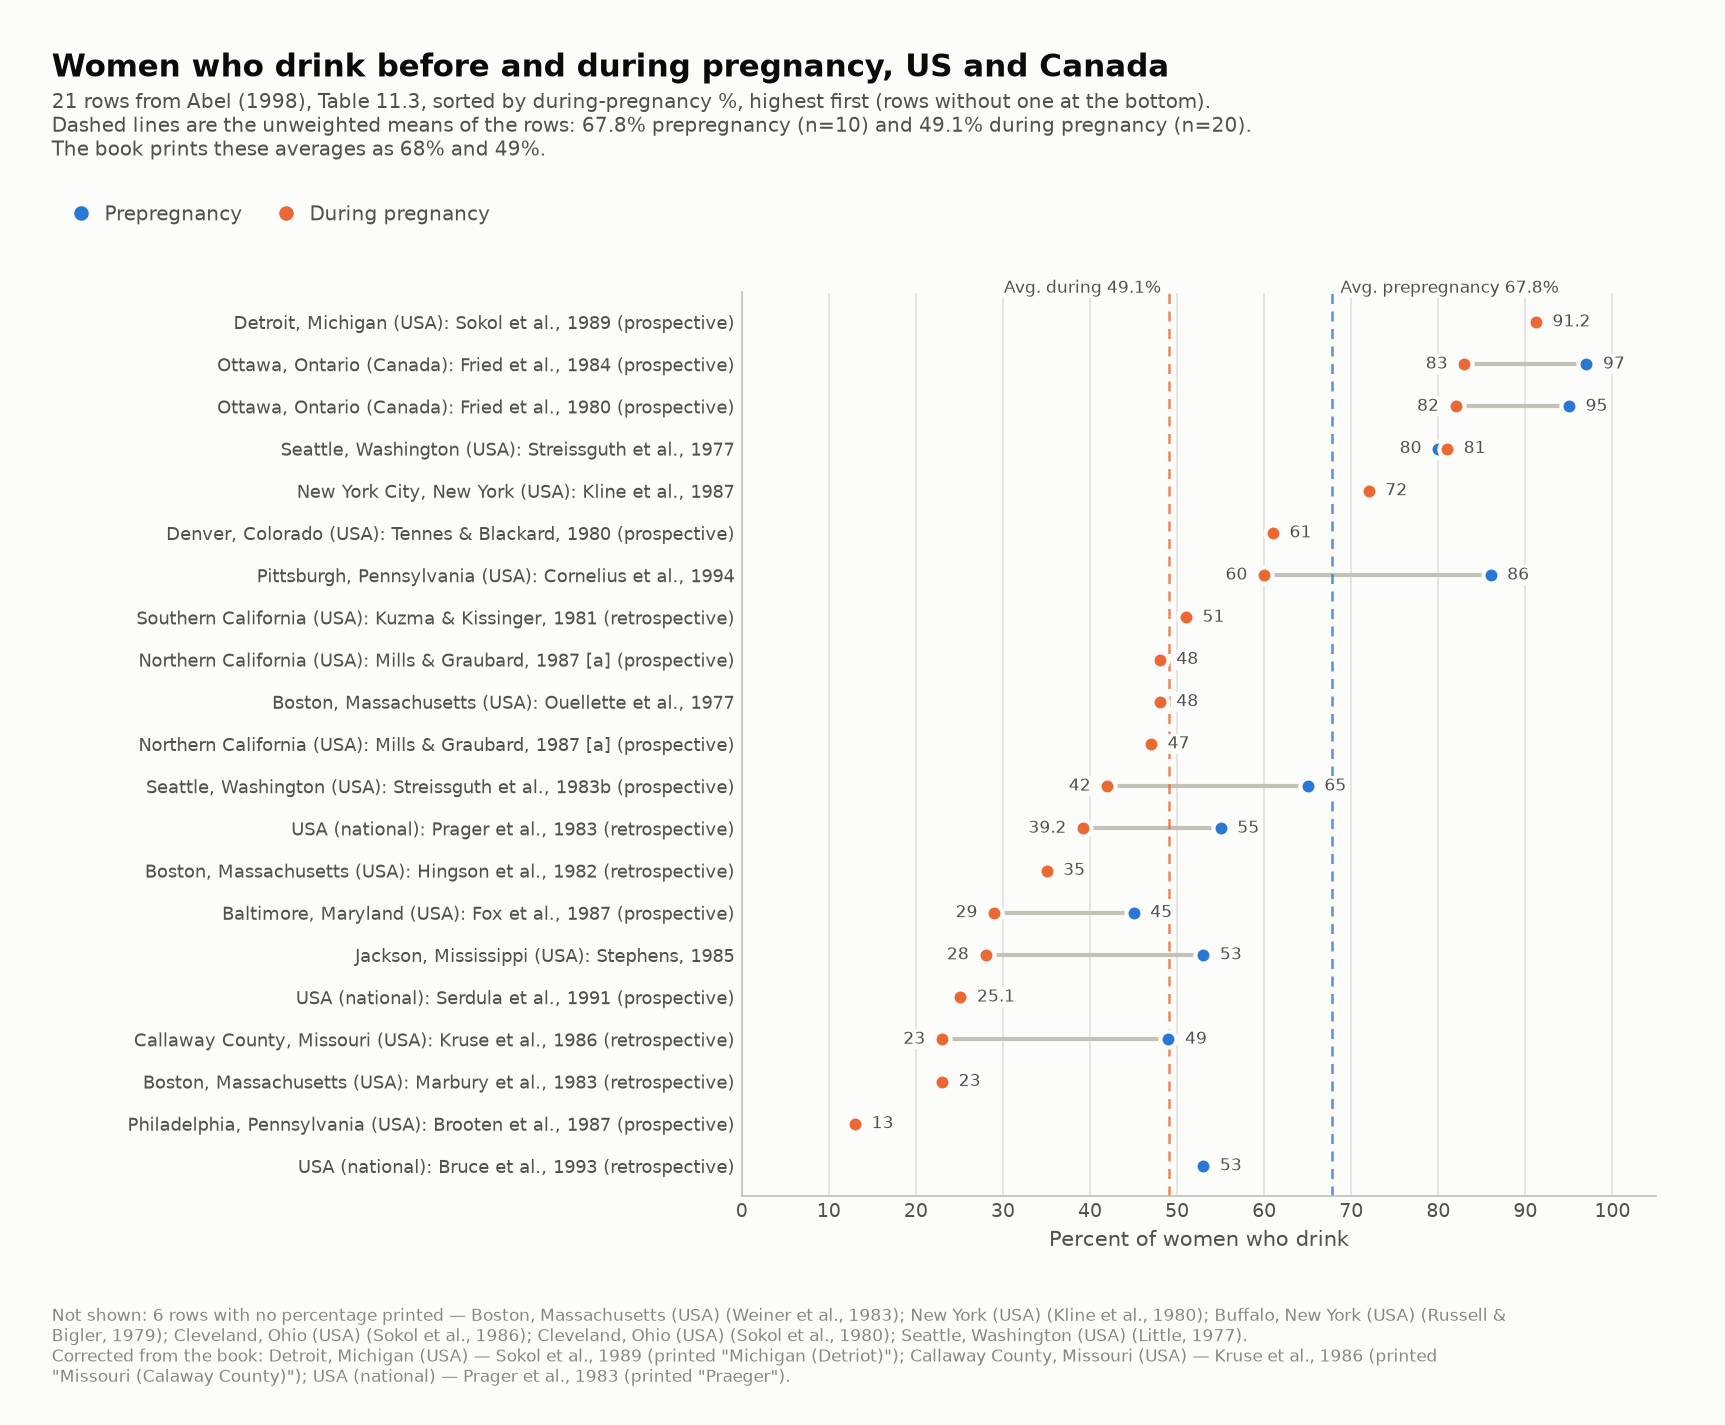
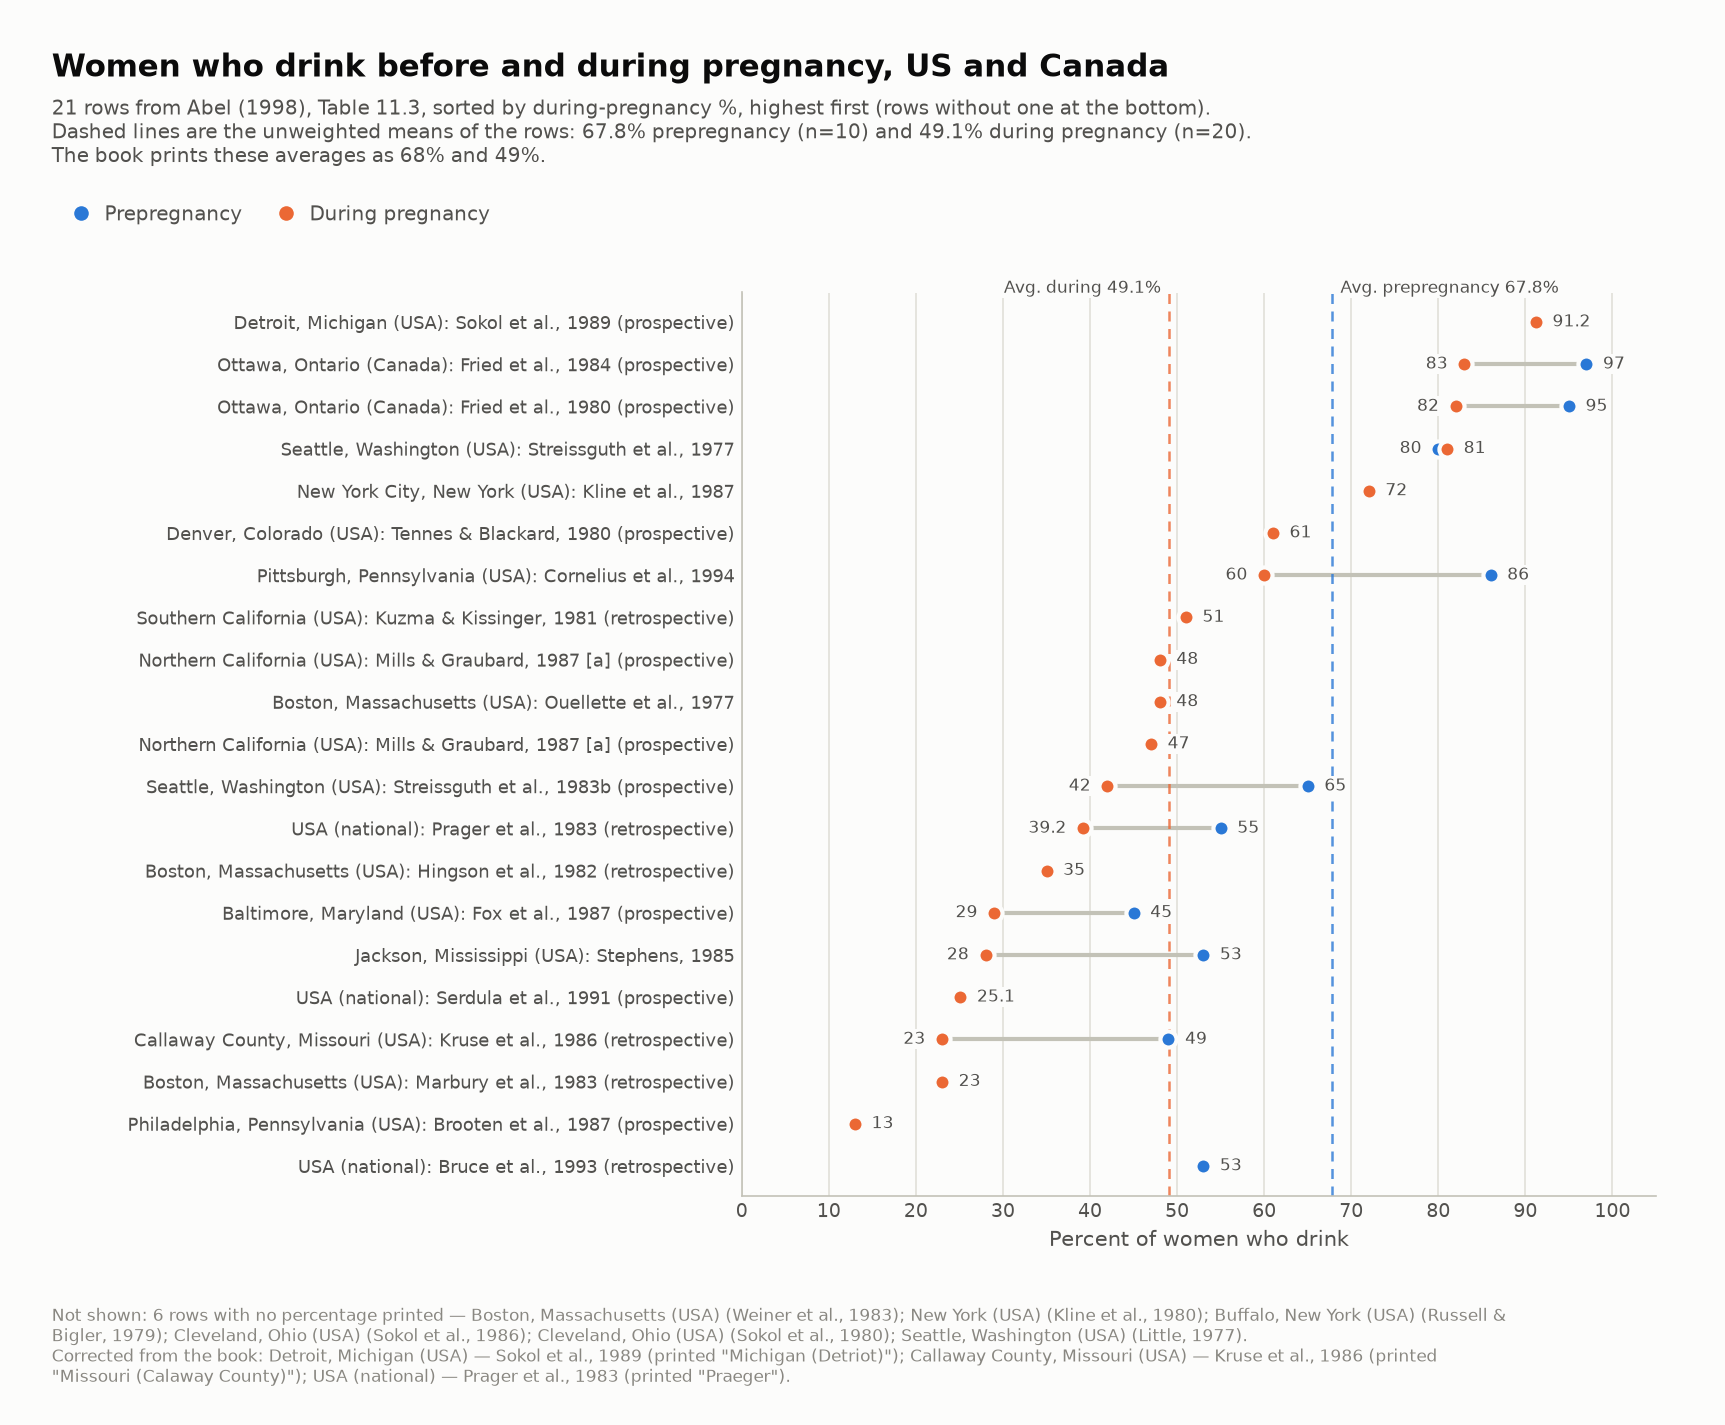
Reword Table 11.4 charts, add combined drinking chart, trim README
Table 11.4 charts now say "FAS cases per 1,000 estimated heavy
drinkers" rather than "incidence per 1,000 heavy drinkers": the
numerator is every FAS case in a study, whoever the mother was. The
trends chart also states that y is computed from x (cases over
heavy-drinker share times sample size), so part of any downward slope
is arithmetic.

New chart: Tables 11.2 and 11.3 combined in one before-and-during
dumbbell, all 51 rows sorted by during-pregnancy percentage. The
drinking-rates script's subtitle gap is now a fixed size so tall
figures keep the legend clear of the text.

README shows only the during-pregnancy chart for Tables 11.2 and 11.3
and notes the derived axis under the Table 11.4 trends chart.

Changed region(s): [[0.0307, 0.0618, 0.7067, 0.1235]]

diff --git a/scripts/fas_rates_chart.py b/scripts/fas_rates_chart.py
@@ -1,4 +1,4 @@
-"""Chart FAS incidence per 1,000 heavy drinkers by study (Abel 1998, Table 11.4).
+"""Chart FAS cases per 1,000 estimated heavy drinkers by study (Abel 1998, Table 11.4).
 
 Writes two images to output/charts/:
   1. Rate by study: every study's rate, grouped under country headings.
@@ -172,13 +172,14 @@ def chart_by_study(studies):
     ax.annotate(f"Pooled rate {pooled:.1f}", (pooled, len(rows) - 0.6),
                 xytext=(5, 0), textcoords="offset points", fontsize=8.5, color=INK_2,
                 va="top", bbox=LABEL_BOX)
-    ax.set_xlabel("Estimated FAS incidence per 1,000 heavy drinkers\n"
+    ax.set_xlabel("FAS cases per 1,000 estimated heavy drinkers\n"
                   "(all FAS cases in the study / its estimated number of heavy drinkers)",
                   color=INK_2, fontsize=10)
 
-    titles(fig, "Estimated FAS incidence per 1,000 heavy drinkers, by study",
+    titles(fig, "FAS cases per 1,000 estimated heavy drinkers, by study",
            f"{len(studies)} studies from Abel (1998), Table 11.4. Each rate is all FAS cases in the "
-           "study divided by its estimated number of heavy drinkers\n(Abel's study-level estimate; "
+           "study, whoever the mother was, divided by its estimated number of heavy\ndrinkers "
+           "(Abel's study-level estimate; "
            "not a rate observed in heavy-drinking women followed individually). Pooled rate = "
            f"{cases} cases /\n{heavy:,} estimated heavy drinkers = {pooled:.1f} per 1,000 "
            "(recomputed; the book's printed total of 3,761 does not match its column).")
@@ -274,7 +275,7 @@ def chart_by_heavy(studies, out_path=OUT_BY_HEAVY,
     ax.axhline(0, color=AXIS, linewidth=1, zorder=1)
     ax.set_xlabel("Percent of pregnant women in the study who drank heavily", color=INK_2,
                   fontsize=10)
-    ax.set_ylabel("Estimated FAS incidence per 1,000 heavy drinkers\n(all FAS cases in the study "
+    ax.set_ylabel("FAS cases per 1,000 estimated heavy drinkers\n(all FAS cases in the study "
                   "/ its estimated number of heavy drinkers)", color=INK_2, fontsize=10)
 
     def signed(v):
@@ -294,15 +295,15 @@ def chart_by_heavy(studies, out_path=OUT_BY_HEAVY,
                title_fontproperties={"size": 10, "weight": "bold"}, alignment="left")
 
     n_zero = sum(s["rate"] == 0 for s in plotted)
-    titles(fig, "Estimated FAS incidence per 1,000 heavy drinkers vs. percent drinking heavily "
-           "in pregnancy, across studies",
+    titles(fig, "FAS cases per 1,000 estimated heavy drinkers vs. the heavy-drinker share of each "
+           "study, across studies",
            f"{len(plotted)} of {len(studies)} studies from Abel (1998), Table 11.4; "
            f"{n_zero} of these reported no cases. Each dot is one study. y: all FAS cases in the "
-           "study divided by its estimated number of heavy drinkers (Abel's estimate;\nnot a rate "
-           "observed in heavy-drinking women followed individually). x: the share of the study's "
-           "pregnant women who drank heavily. The trends relate these study-level\nfigures to each "
-           "other - an ecological comparison - and do not link any woman's own drinking to her own "
-           f"outcome. {place_note}")
+           "study, whoever the mother was, divided by its estimated number of\nheavy drinkers; "
+           "x: the share of the study's pregnant women who drank heavily. y is computed from x "
+           "(cases / (x% \u00d7 sample size)), so a falling trend is partly built in: for a fixed\n"
+           "number of cases per birth, doubling x halves y. Not a rate observed in heavy-drinking "
+           f"women followed individually; trends are across studies (ecological). {place_note}")
     left_out = "; ".join(f'{s["place"]} ({s["study"]}, rate {s["rate"]:g})' for s in missing)
     fig.text(0.03, 0.022,
              f"Not shown: {len(missing)} studies that give no heavy-drinker percentage — "

diff --git a/scripts/drinking_rates_chart.py b/scripts/drinking_rates_chart.py
@@ -1,10 +1,12 @@
 """Chart drinking before and during pregnancy (Abel 1998, Tables 11.2 and 11.3).
 
-Writes three images to output/charts/:
+Writes four images to output/charts/:
   1. Table 11.2 (countries other than the US and Canada): each study's
      prepregnancy and during-pregnancy percentages, joined by a line.
   2. Table 11.3 (United States and Canada): the same chart.
-  3. Both tables together: during-pregnancy % against prepregnancy % for the
+  3. Both tables in one chart of the same kind, every study sorted by its
+     during-pregnancy percentage.
+  4. Both tables together: during-pregnancy % against prepregnancy % for the
      studies that report both, with a "no change" diagonal.
 
 The CSVs copy the book's layout, where a blank site or reference means "same
@@ -33,6 +35,7 @@ CSV_11_2 = DATA / "Table 11.2.csv"
 CSV_11_3 = DATA / "Table 11.3.csv"
 OUT_11_2 = CHARTS / "Table 11.2 - drinking before and during pregnancy, outside US and Canada.png"
 OUT_11_3 = CHARTS / "Table 11.3 - drinking before and during pregnancy, US and Canada.png"
+OUT_ALL = CHARTS / "Tables 11.2 and 11.3 - drinking before and during pregnancy, all studies.png"
 OUT_BOTH = CHARTS / "Tables 11.2 and 11.3 - during vs before pregnancy.png"
 
 # Chart chrome (light mode), shared with fas_rates_chart.py.
@@ -136,7 +139,9 @@ def style_axes(ax):
 
 def titles(fig, title, subtitle, top=0.975):
     fig.suptitle(title, x=0.03, y=top, ha="left", fontsize=15, fontweight="bold", color=INK)
-    fig.text(0.03, top - 0.027, subtitle, ha="left", va="top", fontsize=9.5, color=INK_2)
+    # The gap below the title is a fixed 0.3 in, so tall figures do not open it up.
+    fig.text(0.03, top - 0.3 / fig.get_figheight(), subtitle, ha="left", va="top",
+             fontsize=9.5, color=INK_2)
 
 
 def mean(values):
@@ -225,12 +230,15 @@ def dumbbell(rows, average, table, title, out_path, sort_by_during=False):
 
     _, n_pre = mean(r["pre"] for r in rows)
     _, n_dur = mean(r["during"] for r in rows)
-    printed = PRINTED_AVERAGES[table]
+    printed = PRINTED_AVERAGES.get(table)
+    last = (f"The book prints these averages as {printed[0]:g}% and {printed[1]:g}%."
+            if printed else
+            "Table 11.2 covers countries other than the US and Canada; Table 11.3 covers the US "
+            "and Canada (its rows mark the study design).")
     titles(fig, title,
            f"{len(shown)} rows from {SOURCE}, {table}, {order}.\nDashed lines are the "
            f"unweighted means of the rows: {average[0]:g}% prepregnancy (n={n_pre}) and "
-           f"{average[1]:g}% during pregnancy (n={n_dur}).\nThe book prints these averages as "
-           f"{printed[0]:g}% and {printed[1]:g}%.", top=1 - 0.35 / height)
+           f"{average[1]:g}% during pregnancy (n={n_dur}).\n{last}", top=1 - 0.35 / height)
     fig.legend(handles=[
         Line2D([], [], marker="o", linestyle="", markersize=8, markerfacecolor=PRE_COLOUR,
                markeredgecolor=SURFACE, label="Prepregnancy"),
@@ -348,6 +356,12 @@ def main():
              OUT_11_2, sort_by_during=True)
     dumbbell(rows_3, avg_3, "Table 11.3",
              "Women who drink before and during pregnancy, US and Canada", OUT_11_3,
+             sort_by_during=True)
+    rows_all = rows_2 + rows_3
+    avg_all = tuple(round(sum(v) / len(v), 1) for v in
+                    ([r[k] for r in rows_all if r[k] is not None] for k in ("pre", "during")))
+    dumbbell(rows_all, avg_all, "Tables 11.2 and 11.3",
+             "Women who drink before and during pregnancy, all studies", OUT_ALL,
              sort_by_during=True)
     scatter_both(rows_2, avg_2, rows_3, avg_3)
 

diff --git a/scripts/fas_heavy_pooled_chart.py b/scripts/fas_heavy_pooled_chart.py
@@ -1,4 +1,4 @@
-"""Pool estimated FAS incidence per 1,000 heavy drinkers by region (Abel 1998, Table 11.4).
+"""Pool FAS cases per 1,000 estimated heavy drinkers by region (Abel 1998, Table 11.4).
 
 Each study's rate is all its FAS cases divided by its estimated number of heavy
 drinkers (Abel's study-level estimate), not a rate observed in heavy-drinking
@@ -88,7 +88,7 @@ def build(studies):
 
 def write_csv(studies):
     header = ["Level", "Region", "Country", "Place", "Study (source)", "Studies", "FAS cases",
-              "Heavy drinkers", "Rate per 1,000 heavy drinkers", "95% CI low", "95% CI high"]
+              "Heavy drinkers", "Cases per 1,000 estimated heavy drinkers", "95% CI low", "95% CI high"]
 
     def line(level, region, country, place, study, group):
         cases, n = sum(s["cases"] for s in group), sum(s["heavy"] for s in group)
@@ -153,19 +153,19 @@ def chart(rows, studies, without_n):
     ax.set_ylim(-0.7, len(rows) - 0.3)
     ax.set_xlim(0, xmax)
     ax.grid(axis="y", visible=False)
-    ax.set_xlabel("Estimated FAS incidence per 1,000 heavy drinkers "
+    ax.set_xlabel("FAS cases per 1,000 estimated heavy drinkers "
                   "(all FAS cases / estimated number of heavy drinkers)", color=fas.INK_2,
                   fontsize=10)
 
     us = next(r for r in rows if r and r["name"] == "United States")
     eu = next(r for r in rows if r and r["name"] == "Europe")
-    fig.suptitle("Estimated FAS incidence per 1,000 heavy drinkers, pooled by region", x=0.03,
+    fig.suptitle("FAS cases per 1,000 estimated heavy drinkers, pooled by region", x=0.03,
                  y=0.965, ha="left",
                  fontsize=15, fontweight="bold", color=fas.INK)
     fig.text(0.03, 0.915,
              f"{len(studies)} of the {len(studies) + len(without_n)} studies in Abel (1998), Table 11.4 "
              "that give a number of heavy drinkers (number of studies in brackets).\nPooled rate = all "
-             "FAS cases / all estimated heavy drinkers - Abel's study-level estimate, not a rate observed "
+             "FAS cases, whoever the mother was, / all estimated heavy drinkers - a study-level ratio, not a rate observed "
              "in heavy-drinking women followed\nindividually; bars are exact 95% CIs. Per 1,000 "
              f"estimated heavy drinkers, Europe ({eu['rate']:.1f}) and the US ({us['rate']:.1f}) are "
              "almost identical. Europe's cases come from\nFinland, Hungary and Sweden.",

diff --git a/README.md b/README.md
@@ -19,7 +19,7 @@ Corrected transcriptions of the chapter's tables, with charts and pooled rates b
 
 ### Tables 11.2 and 11.3 - prevalence of drinking before and during pregnancy
 
-![Tables 11.2 and 11.3 - during vs before pregnancy](output/charts/Tables%2011.2%20and%2011.3%20-%20during%20vs%20before%20pregnancy.png)
+![Tables 11.2 and 11.3 - during pregnancy drinking](output/charts/Tables%2011.2%20and%2011.3%20-%20during%20pregnancy%20drinking.png)
 
 ### Table 11.4 - FAS vs prevalence of heavy drinkers in region (not individual level data)
 
@@ -27,7 +27,7 @@ Corrected transcriptions of the chapter's tables, with charts and pooled rates b
 
 ![Table 11.4 - FAS rate by heavy drinkers with trends](output/charts/Table%2011.4%20-%20FAS%20rate%20by%20heavy%20drinkers%20with%20trends.png)
 
-Ecological comparison: each dot is one study. Its rate is all FAS cases in the study divided by the study's estimated number of heavy drinkers (Abel's estimate), not a rate observed in heavy-drinking women followed individually. The trend runs across studies and does not link any woman's own drinking to her own outcome.
+Ecological comparison: each dot is one study. Its rate is all FAS cases in the study divided by the study's estimated number of heavy drinkers (Abel's estimate), not a rate observed in heavy-drinking women followed individually. The trend runs across studies and does not link any woman's own drinking to her own outcome. The y value is also computed from the x value (cases divided by heavy-drinker share times sample size), so part of any downward slope is arithmetic rather than evidence.
 
 ![Table 11.4 - pooled FAS among heavy drinkers by region](output/charts/Table%2011.4%20-%20pooled%20FAS%20among%20heavy%20drinkers%20by%20region.png)
 
